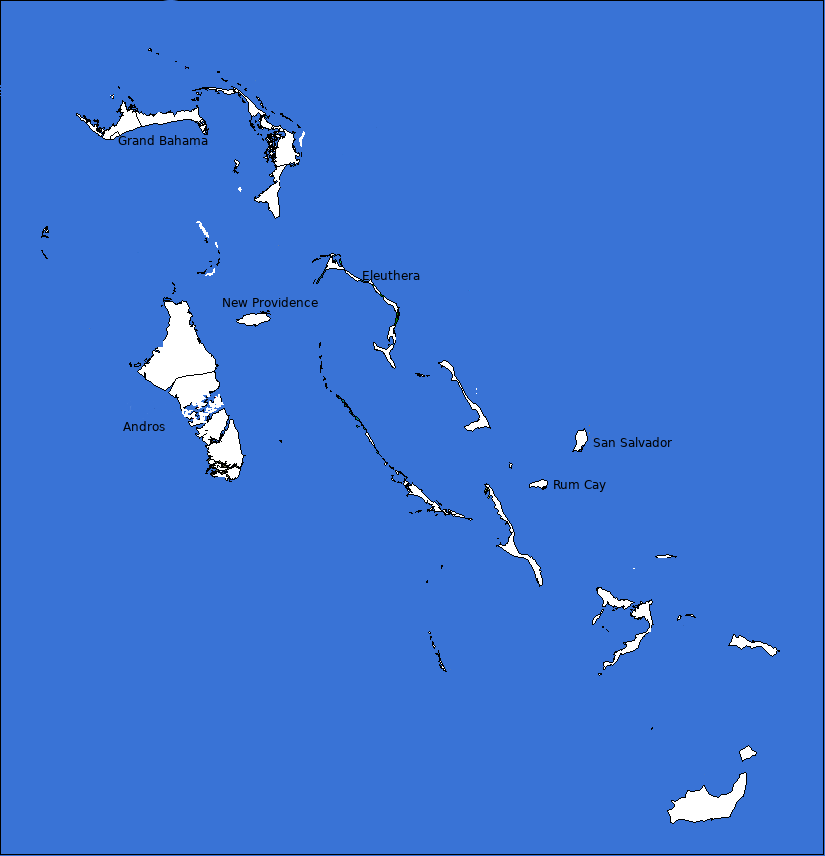
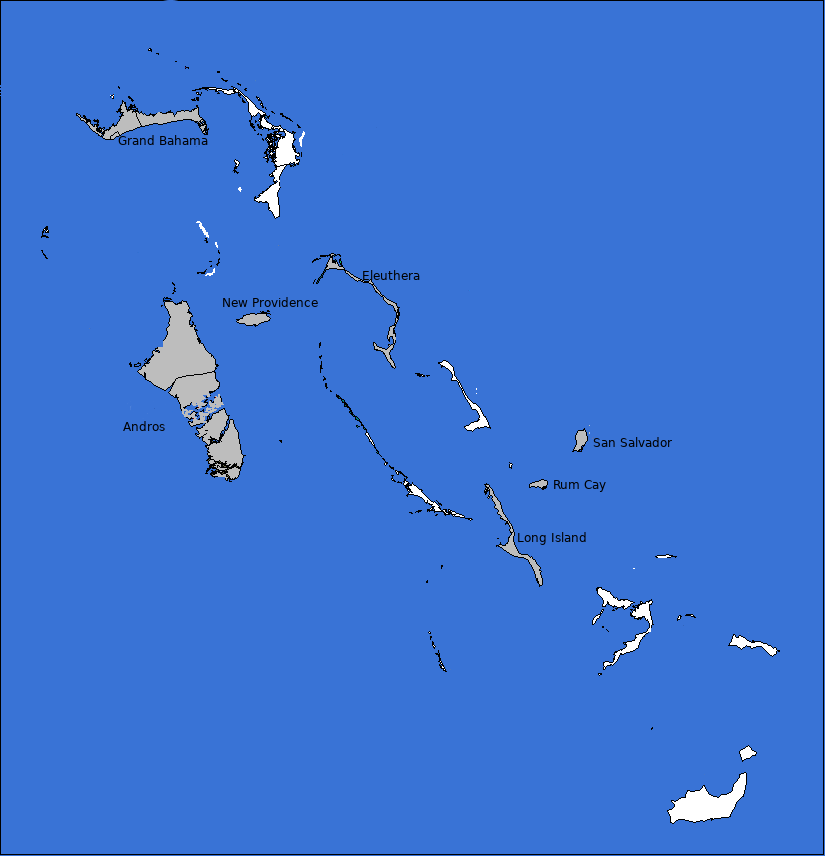
Bahamas

diff --git a/english/bs/Maps/index.html b/english/bs/Maps/index.html
@@ -36,17 +36,18 @@
 
         <figure class="center">
             <map name="BahamasMap">
-                <area shape="poly" href="Andros.html" target="_top" alt="Andros Island" coords="161,295,155,300,165,315,162,335,146,354,138,362,129,362,129,373,179,410,197,441,201,467,211,484,243,485,249,454,220,372,222,358,206,341,191,295,178,298,170,293"/>
-                <area shape="poly" href="Eleuthera.html" target="_top" alt="Eleuthera Island" coords="335,250,327,251,316,278,319,281,329,272,342,275,358,284,379,301,393,311,397,326,404,308,396,298,382,295,376,285,346,264,334,260"/>
-                <area shape="poly" href="Long.html" target="_top" alt="Long Island" coords="482,478,479,490,506,532,503,542,495,545,507,560,525,565,538,588,546,594,545,572,541,556,527,549,520,546,516,525,509,510,495,485,488,477"/>
-                <area shape="poly" href="NewProvidence.html" target="_top" alt="New Providence Island" coords="231,324,251,328,266,324,279,320,275,309,259,307,238,314,232,319"/>
-                <area shape="rect" href="NewProvidence.html" target="_top" alt="New Providence Island" coords="217,293,318,309"/>
-                <area shape="poly" href="SanSalvador.html" target="_top" alt="San Salvador Island" coords="579,424,572,428,572,443,565,448,573,454,584,451,595,444,592,434"/>
-                <area shape="rect" href="Andros.html" target="_top" alt="Andros Island" coords="116,416,167,434"/>
-                <area shape="rect" href="Eleuthera.html" target="_top" alt="Eleuthera Island" coords="357,265,421,283"/>
-                <area shape="rect" href="GrandBahama.html" target="_top" alt="Grand Bahama Island" coords="72,104,211,147"/>
-                <area shape="rect" href="RumCay.html" target="_top" alt="Rum Cay" coords="526,474,610,492"/>
-                <area shape="rect" href="SanSalvador.html" target="_top" alt="San Salvador Island" coords="589,435,675,450"/>
+                <area shape="poly" alt="Andros Island" href="Andros.html" target="_top" coords="161,295,155,300,165,315,162,335,146,354,138,362,129,362,129,373,179,410,197,441,201,467,211,484,243,485,249,454,220,372,222,358,206,341,191,295,178,298,170,293"/>
+                <area shape="poly" alt="Eleuthera Island" href="Eleuthera.html" target="_top" coords="335,250,327,251,316,278,319,281,329,272,342,275,358,284,379,301,393,311,397,326,404,308,396,298,382,295,376,285,346,264,334,260"/>
+                <area shape="poly" alt="Long Island" href="Long.html" target="_top" coords="482,478,479,490,506,532,503,542,495,545,507,560,525,565,538,588,546,594,545,572,541,556,527,549,520,546,516,525,509,510,495,485,488,477"/>
+                <area shape="poly" alt="New Providence Island" href="NewProvidence.html" target="_top" coords="231,324,251,328,266,324,279,320,275,309,259,307,238,314,232,319"/>
+                <area shape="poly" alt="San Salvador Island" href="SanSalvador.html" target="_top" coords="579,424,572,428,572,443,565,448,573,454,584,451,595,444,592,434"/>
+                <area shape="rect" alt="Andros Island" href="Andros.html" target="_top" coords="116,416,167,434"/>
+                <area shape="rect" alt="Eleuthera Island" href="Eleuthera.html" target="_top" coords="357,265,421,283"/>
+                <area shape="rect" alt="Grand Bahama Island" href="GrandBahama.html" target="_top" coords="72,104,211,147"/>
+                <area shape="rect" alt="Long Island" href="Long.html" target="_top" coords="519,529,591,547"/>
+                <area shape="rect" alt="New Providence Island" href="NewProvidence.html" target="_top" coords="217,293,318,309"/>
+                <area shape="rect" alt="Rum Cay" href="RumCay.html" target="_top" coords="526,474,610,492"/>
+                <area shape="rect" alt="San Salvador Island" href="SanSalvador.html" target="_top" coords="589,435,675,450"/>
                 <area shape="default"/>
             </map>
             <img alt="" src="../../../maps/Big/Bahamas.png" USEMAP="#BahamasMap" border="1">

diff --git a/english/bs/caves/SaltPond.html b/english/bs/caves/SaltPond.html
@@ -81,13 +81,13 @@
             <tr>
                 <td><a target="_top" href="../../explain/Info/dimension.html">Dimension:</a></td>
                 <td>
-                    &nbsp;
+                     
                 </td>
             </tr>
             <tr>
                 <td><a target="_top" href="../../explain/Info/tours.html">Guided tours:</a></td>
                 <td>
-                    &nbsp;
+                     
                 </td>
             </tr>
             <tr>
@@ -99,19 +99,19 @@
             <tr>
                 <td><a target="_top" href="../../explain/Info/accessibility.html">Accessibility:</a></td>
                 <td>
-                    &nbsp;
+                     
                 </td>
             </tr>
             <tr>
                 <td><a target="_top" href="../../explain/Info/literature.html">Bibliography:</a></td>
                 <td>
-                    &nbsp;
+                     
                 </td>
             </tr>
             <tr>
                 <td><a target="_top" href="../../explain/Info/adress.html">Address:</a></td>
                 <td>
-                    &nbsp;
+                     
                 </td>
             </tr>
             <tr>
@@ -129,23 +129,18 @@
         <h2>Description</h2>
 
         <p>
-            <b>Salt Pond Cave</b> is an extensive cave system located right north of the
-            small settlement Salt Pond.
-            From the Grocery Store "H.S.C." follow the road north for 600m, where the trail
-            to the cave starts.
+            <b>Salt Pond Cave</b> is an extensive cave system located right north of the small settlement Salt Pond.
+            From the Grocery Store "H.S.C." follow the road north for 600m, where the trail to the cave starts.
         </p>
 
         <p class="indentedText">
-            This is an easy wild cave cave, bring two lamps for each participant and a
-            helmet, if possible.
-            The cave is on private property, so it is necessary to ask the owner for
-            permission, unfortunately we could not find out who the ownwer is.
+            This is an easy wild cave, bring two lamps for each participant and a helmet, if possible.
+            The cave is on private property, so it is necessary to ask the owner for permission, unfortunately we could not find out who the owner is.
             We guess the best start is the grocery store.
         </p>
 
         <p class="indentedText">
-            Some websites talk of Salt Pond Cave<b>s</b>, as there are actually two nearby
-            caves.
+            Some websites talk of Salt Pond Cave<b>s</b>, as there are actually two nearby caves.
             The second cave is located rather close to the Grocery Store.
             Follow the trail to the right of the road.
         </p>

diff --git a/english/bs/About.html b/english/bs/About.html
@@ -61,6 +61,7 @@
             <li data-role="list-divider">Additional Information about Bahamas</li>
             <li><a target="_blank" href="https://www.google.com/search?q=Bahamas+cave*"><img alt="Google" class="ui-li-icon ui-corner-none symbol" src="../../graphics/symbol/google.png">Search Google for "Bahamas cave*"</a></li>
             <li><a target="_blank" href="http://en.wikipedia.org/wiki/Bahamas"><img alt="Wikipedia" class="ui-li-icon ui-corner-none symbol" src="../../graphics/symbol/Wikipedia.png">The Bahamas - Wikipedia</a></li>
+            <li><a target="_blank" href="https://www.nationalgeographic.com/magazine/2010/08/bahamas-caves-underwater-blue-holes/"><img alt="World" class="ui-li-icon ui-corner-none symbol" src="../../graphics/symbol/World.png">Deep Dark Secrets - National Geographic (visited: 28-Juni-2020)</a></li>
             <li><a target="_blank" href="http://www.tamug.edu/cavebiology/Bahamas/BahamaIntro.html"><img alt="World" class="ui-li-icon ui-corner-none symbol" src="../../graphics/symbol/World.png">Bahamas Introduction</a></li>
             <li><a target="_blank" href="http://users.powernet.co.uk/mkmarina/bahamas/bs.html"><img alt="World" class="ui-li-icon ui-corner-none symbol" src="../../graphics/symbol/World.png">Maps of The Bahamas, Peter Loud</a></li>
             <li><a target="_blank" href="http://www.bahamasbeachfrontvilla.com/CaveExploration-LongIsland.htm"><img alt="World" class="ui-li-icon ui-corner-none symbol" src="../../graphics/symbol/World.png">Cave exploration in Long Island bahamas, (visited: 29-AUG-2014)</a></li>

diff --git a/english/bs/caves/Cartwrights.html b/english/bs/caves/Cartwrights.html
@@ -130,22 +130,15 @@
         <h2>Description</h2>
 
         <p>
-            <b>Cartwright's Cave</b>, located south of the main settlement on Long Island,
-            Deadman's Cay, is said to be <i>one of the most fascinating cave systems in the
-            Caribbean</i>.
+            <b>Cartwright's Cave</b>, located south of the main settlement on Long Island, Deadman's Cay, is said to be <i>one of the most fascinating cave systems in the Caribbean</i>.
             The cave has numerous speleothems like stalactites and stalagmites.
             It is home to numerous bats.
         </p>
 
         <p class="indentedText">
-            Archaeological findings show it was once used by the natives of Long Island, the
-            <b>Lucayan Indians</b>.
+            Archaeological findings show it was once used by the natives of Long Island, the <b>Lucayan Indians</b>.
             They left carvings and writings on the cave walls.
-        </p>
-
-        <p class="indentedText">
-            Stories about 17th century pirates using the caves as a base and hiding place
-            are just legends, evidence has not been found.
+            Stories about 17th century pirates using the caves as a base and hiding place are just legends, evidence has not been found.
             If you find a lost treasure chest, that would verify the legends.
         </p>
 

diff --git a/english/bs/caves/TheCaves.html b/english/bs/caves/TheCaves.html
@@ -36,11 +36,6 @@
     <div data-role="main" class="ui-content">
 
 
-        <!--
-        INSERT INTO sights (visible, name, filename, sortby, continent, countrycode, country, category, region)
-        VALUES('yes','The Caves', '/english/bs/caves/TheCaves.html', 'TheCaves', 'NorthAmerica', 'bs', 'Bahamas', 'caves', 'NewProvidence');
-        -->
-
         <h1 class="center">The Caves</h1>
         <h2 class="center"></h2>
 
@@ -146,7 +141,7 @@
 
         <ul class="linklist" data-role="listview" data-inset="true">
             <li data-role="list-divider">See also</li>
-            <li><a target="_blank" href="https://www.google.com/search?q=The Caves"><img alt="Google" class="ui-li-icon ui-corner-none symbol" src="../../../graphics/symbol/google.png">Search Google for "The Caves"</a></li>
+            <li><a target="_blank" href="https://www.google.com/search?q=The+Caves"><img alt="Google" class="ui-li-icon ui-corner-none symbol" src="../../../graphics/symbol/google.png">Search Google for "The Caves"</a></li>
             <li><a target="_blank" href="../../../kmz/bs/TheCaves.kmz"><img alt="GoogleEarth" class="ui-li-icon ui-corner-none symbol" src="../../../graphics/symbol/GoogleEarth.png">Google Earth Placemark</a></li>
         </ul>
 

diff --git a/english/bs/caves/TenBay.html b/english/bs/caves/TenBay.html
@@ -37,7 +37,7 @@
 
 
         <h1 class="center">Ten Bay Cave</h1>
-        <h2 class="center"></h2>
+        <h2 class="center">Bat Cave</h2>
 
         <br class="clear">
 
@@ -48,8 +48,8 @@
             <tr>
                 <td><a target="_top" href="../../explain/Info/location.html">Location:</a></td>
                 <td>
-                    Queen's Highway
-                    Savannah Sound, Central Eleuthera
+                    Queen's Highway, Savannah Sound, Central Eleuthera.
+                    South of Palmetto Point and North of Ten Bay Beach.
                 </td>
             </tr>
             <tr>
@@ -130,9 +130,8 @@
         <h2>Description</h2>
 
         <p>
-            <b>Ten Bay Cave</b> is
-
-            Ten Bay Cave, also known as Bat Cave, is located South of Palmetto Point and North of Ten Bay Beach. There are no stalagmites or stalactites there – only bats. At least two colonies of leaf-nosed bats live there.
+            <b>Ten Bay Cave</b> is also known as Bat Cave.
+            There are no stalagmites or stalactites there – only bats. At least two colonies of leaf-nosed bats live there.
         </p>
 
         <!--

diff --git a/english/bs/caves/HenryMorgan.html b/english/bs/caves/HenryMorgan.html
@@ -128,7 +128,7 @@
         <h2>Description</h2>
 
         <p>
-            <b>Henry Morgan's Cave</b> is  said to be the site of a hidden treasure buried by the infamous 17th century pirate, Sir <b class="smallCaps">Henry Morgan</b> aka Captain <b class="smallCaps">Morgan</b>.
+            <b>Henry Morgan's Cave</b> is said to be the site of a hidden treasure buried by the infamous 17th century pirate, Sir <b class="smallCaps">Henry Morgan</b> aka Captain <b class="smallCaps">Morgan</b>.
             He made a name with his activities in the Caribbean, primarily raiding Spanish settlements.
         </p>
 

diff --git a/english/bs/caves/MermaidsLair.html b/english/bs/caves/MermaidsLair.html
@@ -133,7 +133,6 @@
             Actually it is not a blue hole, the term cenote would be more appropriate, but it is simply the entrance to a water filled cave system.
             You can visit the cave entrance freely, but the enter the cave you need to dive.
             Dive excursions are offered by Calabash Eco Adventures.
-
         </p>
 
         <p class="indentedText">
